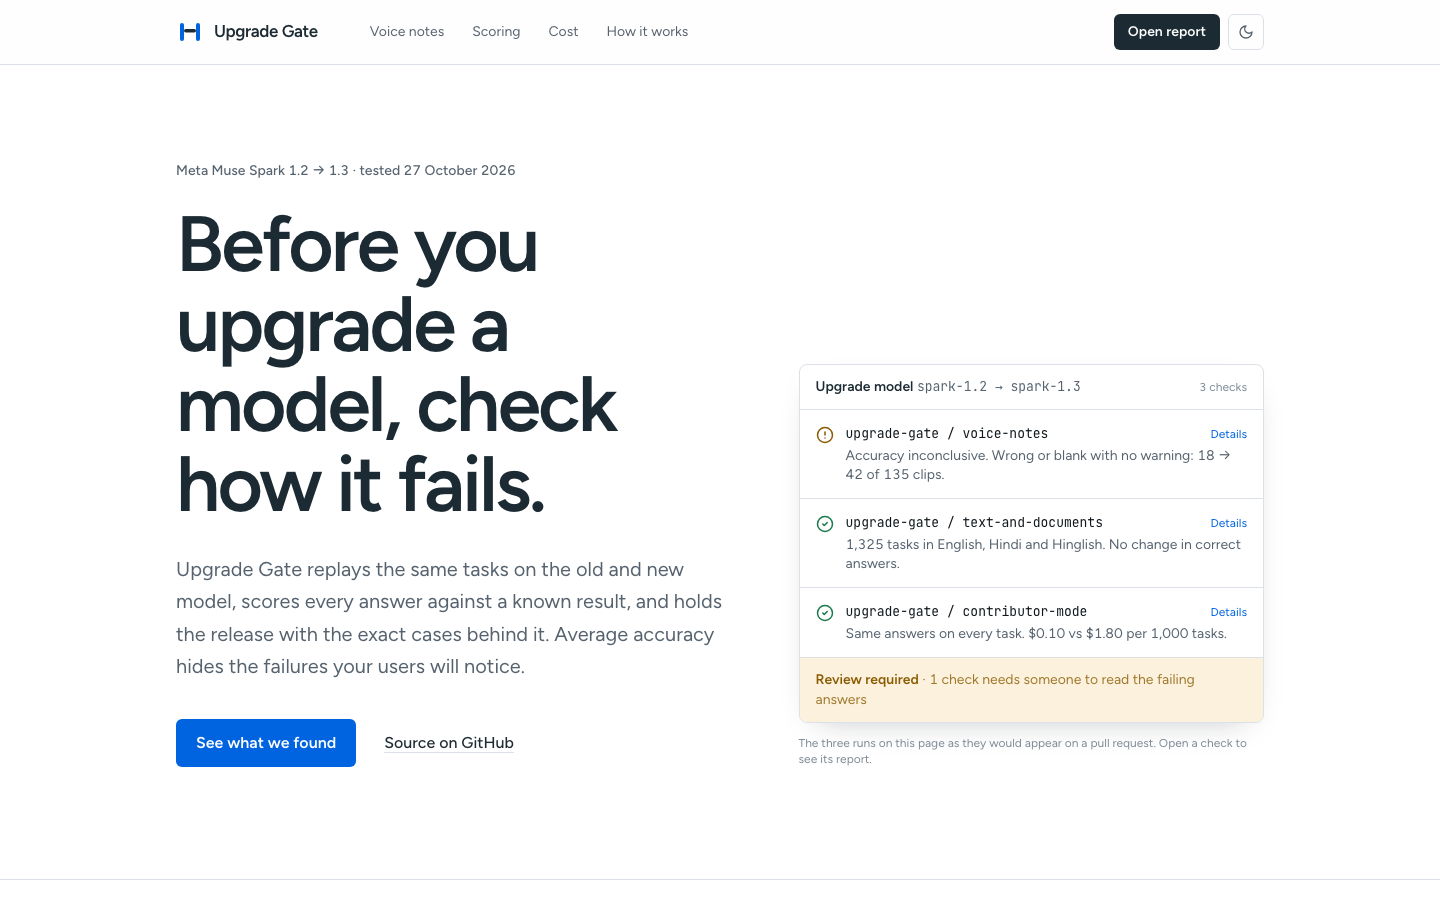
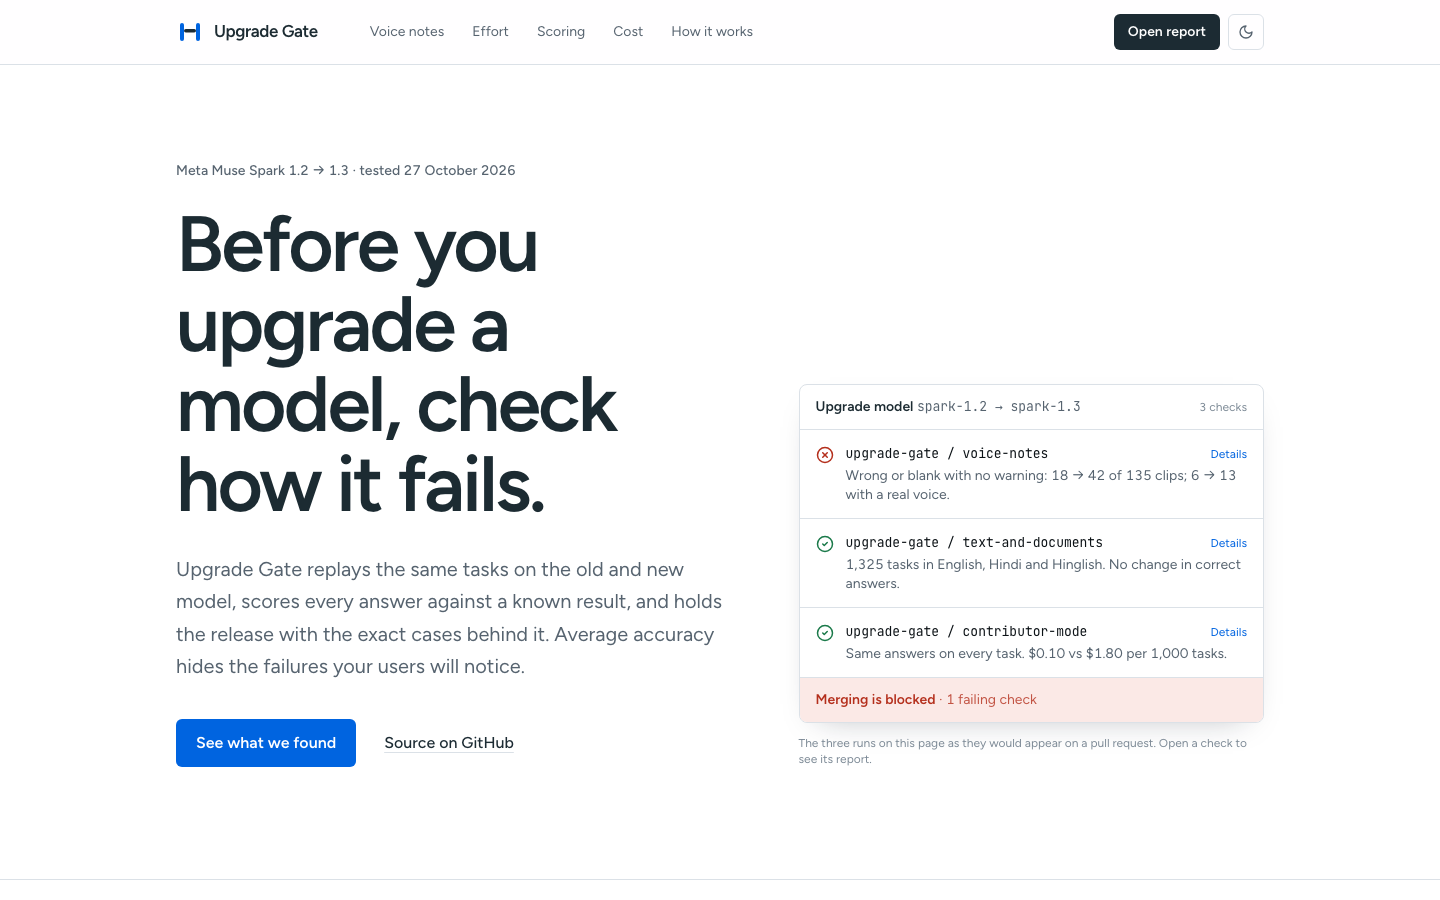
claude: README and demo script open with the real blocked upgrade PR; fresh screenshots

Changed region(s): [[0.5312, 0.4044, 0.875, 0.8089], [0.4375, 0.0311, 0.5312, 0.0622], [0.3438, 0.0311, 0.4062, 0.0622]]

diff --git a/docs/DEMO.md b/docs/DEMO.md
@@ -1,21 +1,22 @@
 # Demo script (3 minutes)
 
-Run `npm --prefix web run dev`, open http://127.0.0.1:5191 in a clean browser window at 1440×900, light mode.
-Have the volume up for the clip. Times are targets, not rules.
+Have two tabs ready at 1440×900, light mode, volume up:
+1. The GitHub pull request `upgrade/spark-1.3` with its checks finished.
+2. The site: `npm --prefix web run dev`, then http://127.0.0.1:5191/#/report/e6-audio.
 
 | Time | Screen | Say |
 |---|---|---|
-| 0:00 | Home, top | "Companies upgrade models the way they upgrade libraries: the new version scores a bit better, so they ship it. We built a gate that checks *how* the new version fails before you ship." |
-| 0:15 | Point at the pull-request checks on the right | "This is what a team sees on the pull request that bumps Meta's Muse Spark from 1.2 to 1.3. Two checks pass. Voice notes needs review. Let's open it." Click **Details** on `voice-notes`. |
-| 0:30 | Report, top | "135 voice notes in English, Hindi and Hinglish, three tries each on both versions, $3. Pass rate: 84.8 to 83.6. On accuracy alone the gate says inconclusive; it would need about 9,000 more clips." |
-| 0:50 | Scroll to the clip grid | "So we look at how each version fails. Every square is one voice note. Yellow is 1.2 saying 'I can't hear this audio'. On 1.3 that's gone, and the red and striped squares are answers that are wrong or blank with no warning. 18 clips became 42. That's significant with just 135 clips." |
-| 1:20 | Click a striped square in the Hinglish row of Spark 1.3 (e.g. `audio-synth-extract-02-hinglish`) | Play the clip. "A customer reads out an order number. 1.2 gets it right twice and once says it can't hear. 1.3 returns blank fields three times, as if everything were fine. A support bot on 1.3 would save an empty order number and nobody would know." |
-| 1:50 | Close the panel. Click the **Text, documents, Hindi** tab | "Second lesson: check the scorer before trusting the p-value. Our first scorer said 1.3 was 1.1 points better at Hindi, p of 0.00006." |
-| 2:05 | Back to Home → Scoring section, the "Somwar" example | "1.2 had written 'Somwar'; our answer key said 'Somvar'. Same word. Once we scored correctness and format separately, the improvement went to zero." |
-| 2:25 | Click the **Contributor mode** tab in the report | "Third: Meta's Contributor mode. Same answers on all 1,325 tasks at a tenth of a dollar per thousand tasks instead of $1.80." |
-| 2:40 | Home → How it works | "It runs from one command in CI. Exit code 0 ships, 2 blocks, 3 asks for more evidence, and every decision links to the answers behind it. Every paid call is checked against a spending cap first." |
-| 2:55 | Back to the PR checks | "Upgrade Gate: before you upgrade a model, check how it fails." |
+| 0:00 | GitHub PR "Upgrade to Muse Spark 1.3", the one-line diff in `release/model.json` | "Teams upgrade models the way they upgrade libraries: change one line, ship. This pull request moves our app from Meta's Muse Spark 1.2 to 1.3." |
+| 0:15 | The checks box: two red, one green, **deploy skipped** | "Upgrade Gate replays our saved tasks on both versions. Text and documents pass. Voice notes fail, and the deploy step never runs." |
+| 0:30 | Click `upgrade-gate / voice-notes` → the job summary | "Accuracy alone was inconclusive: about the same number right. What changed is how it fails. On 135 voice notes, answers that are wrong or blank with no warning went from 18 to 42. 1.2 often said 'I can't hear this'; 1.3 never does." |
+| 0:55 | Scroll to **One failing case** | "A customer leaves a Hindi voice note with their pincode. 1.2 gets it right. 1.3 returns 380015, a real Ahmedabad pincode, just the wrong one. It's correctly shaped, so a schema check passes it. That's the failure that reaches your database." |
+| 1:15 | Switch to the site report, Voice notes tab, the clip grid | "Every square is one voice note. Yellow is 1.2 saying it can't hear. On 1.3 that becomes red: wrong, and no warning." Click one red square, play the clip, show both versions' three tries. |
+| 1:45 | **Real voices** tab | "Synthetic voices are clean, so we wrote the prediction down first, then recorded 45 of these lines in a real voice. It held: 6 to 13, and accuracy fell 11 points." |
+| 2:05 | Home → "More thinking, worse listening" chart | "Spark 1.3 lets you set reasoning effort. On voice notes, more thinking was worse: 73% at minimal, 59% at the highest, at six times the cost. It talks itself into 'I can't hear this'. For voice input: minimal effort." |
+| 2:25 | Home → scorer section ("Somwar") | "We also caught our own mistake: our first scorer said 1.3 was significantly better at Hindi. It was spelling. The tool shows rejected answers next to every score so you can check the rule." |
+| 2:40 | Report → Contributor mode tab | "And Contributor mode gave identical answers at a tenth of a dollar per thousand tasks instead of $1.80." |
+| 2:50 | Back to the PR checks | "Upgrade Gate: before you upgrade a model, check how it fails. Open source; bring your own tasks as a JSONL file." |
 
-**If E7 (real voices) is done before recording:** at 1:40 add one line with its result, e.g. "We repeated this with real recorded voices and the same pattern held" (or say plainly that it didn't).
-
-**Recording tips:** hide the bookmarks bar, zoom the browser to 110% so text reads on small screens, record the screen at 1080p, and keep the cursor still while talking.
+**Before recording:** make the repo public and add a branch-protection rule on `main` requiring the three
+`upgrade-gate / …` checks, so the PR page also shows *Merging is blocked*. Hide the bookmarks bar, zoom to 110%,
+record at 1080p, keep the cursor still while talking.

diff --git a/README.md b/README.md
@@ -35,6 +35,25 @@ The old scorer rejected correct Hindi spellings such as `Somwar` versus `Somvar`
 
 The models are near the ceiling here. This does not establish that 1.3 is safe on every company's workload. E1 shows why a statistically significant score difference still needs an audited scoring rule. See the [recorded E1 tables](experiments/out/e1_upgrade.md) and [experiment account](findings/LOG.md#e1-result-spark-12--13-and-a-scorer-that-invented-an-improvement). Raw run folders stay local under `results/` and are not committed.
 
+## Watch it block an upgrade
+
+[`release/model.json`](release/model.json) holds the model this app ships. The branch
+[`upgrade/spark-1.3`](https://github.com/UtsavInTech/upgrade-gate/compare/main...upgrade/spark-1.3) changes it from
+`spark-1.2@low` to `spark-1.3@low`. On that pull request, [the upgrade-gate workflow](.github/workflows/upgrade-gate.yml)
+replays the saved answers in [`evidence/`](evidence) for both models (no API key needed) and runs three checks:
+
+| Check | Result | Why |
+|---|---|---|
+| `upgrade-gate / voice-notes` | ❌ NO-GO | Audio input: wrong or blank with no warning 18 → 42 of 135 clips, p = 3 × 10⁻⁶. Accuracy alone: inconclusive |
+| `upgrade-gate / real-voices` | ❌ NO-GO | 6 → 13 of 45 clips read by a person, and accuracy down past the limit |
+| `upgrade-gate / text-and-documents` | ✅ GO | No change on 1,325 tasks |
+| `deploy model` | skipped | Runs only when every check passes |
+
+Each failed check's summary shows one filled-in wrong answer, e.g. a Hindi voice note where 1.3 returns pincode
+`380015` (a real Ahmedabad pincode) instead of `452089`: correctly shaped, so a required-fields check passes it. With
+branch protection requiring these checks, GitHub also blocks the merge. In a live setup the same step runs
+`upgrade-gate all` with `MODEL_API_KEY` instead of replaying saved answers.
+
 ## Try it without spending money
 
 ```sh
